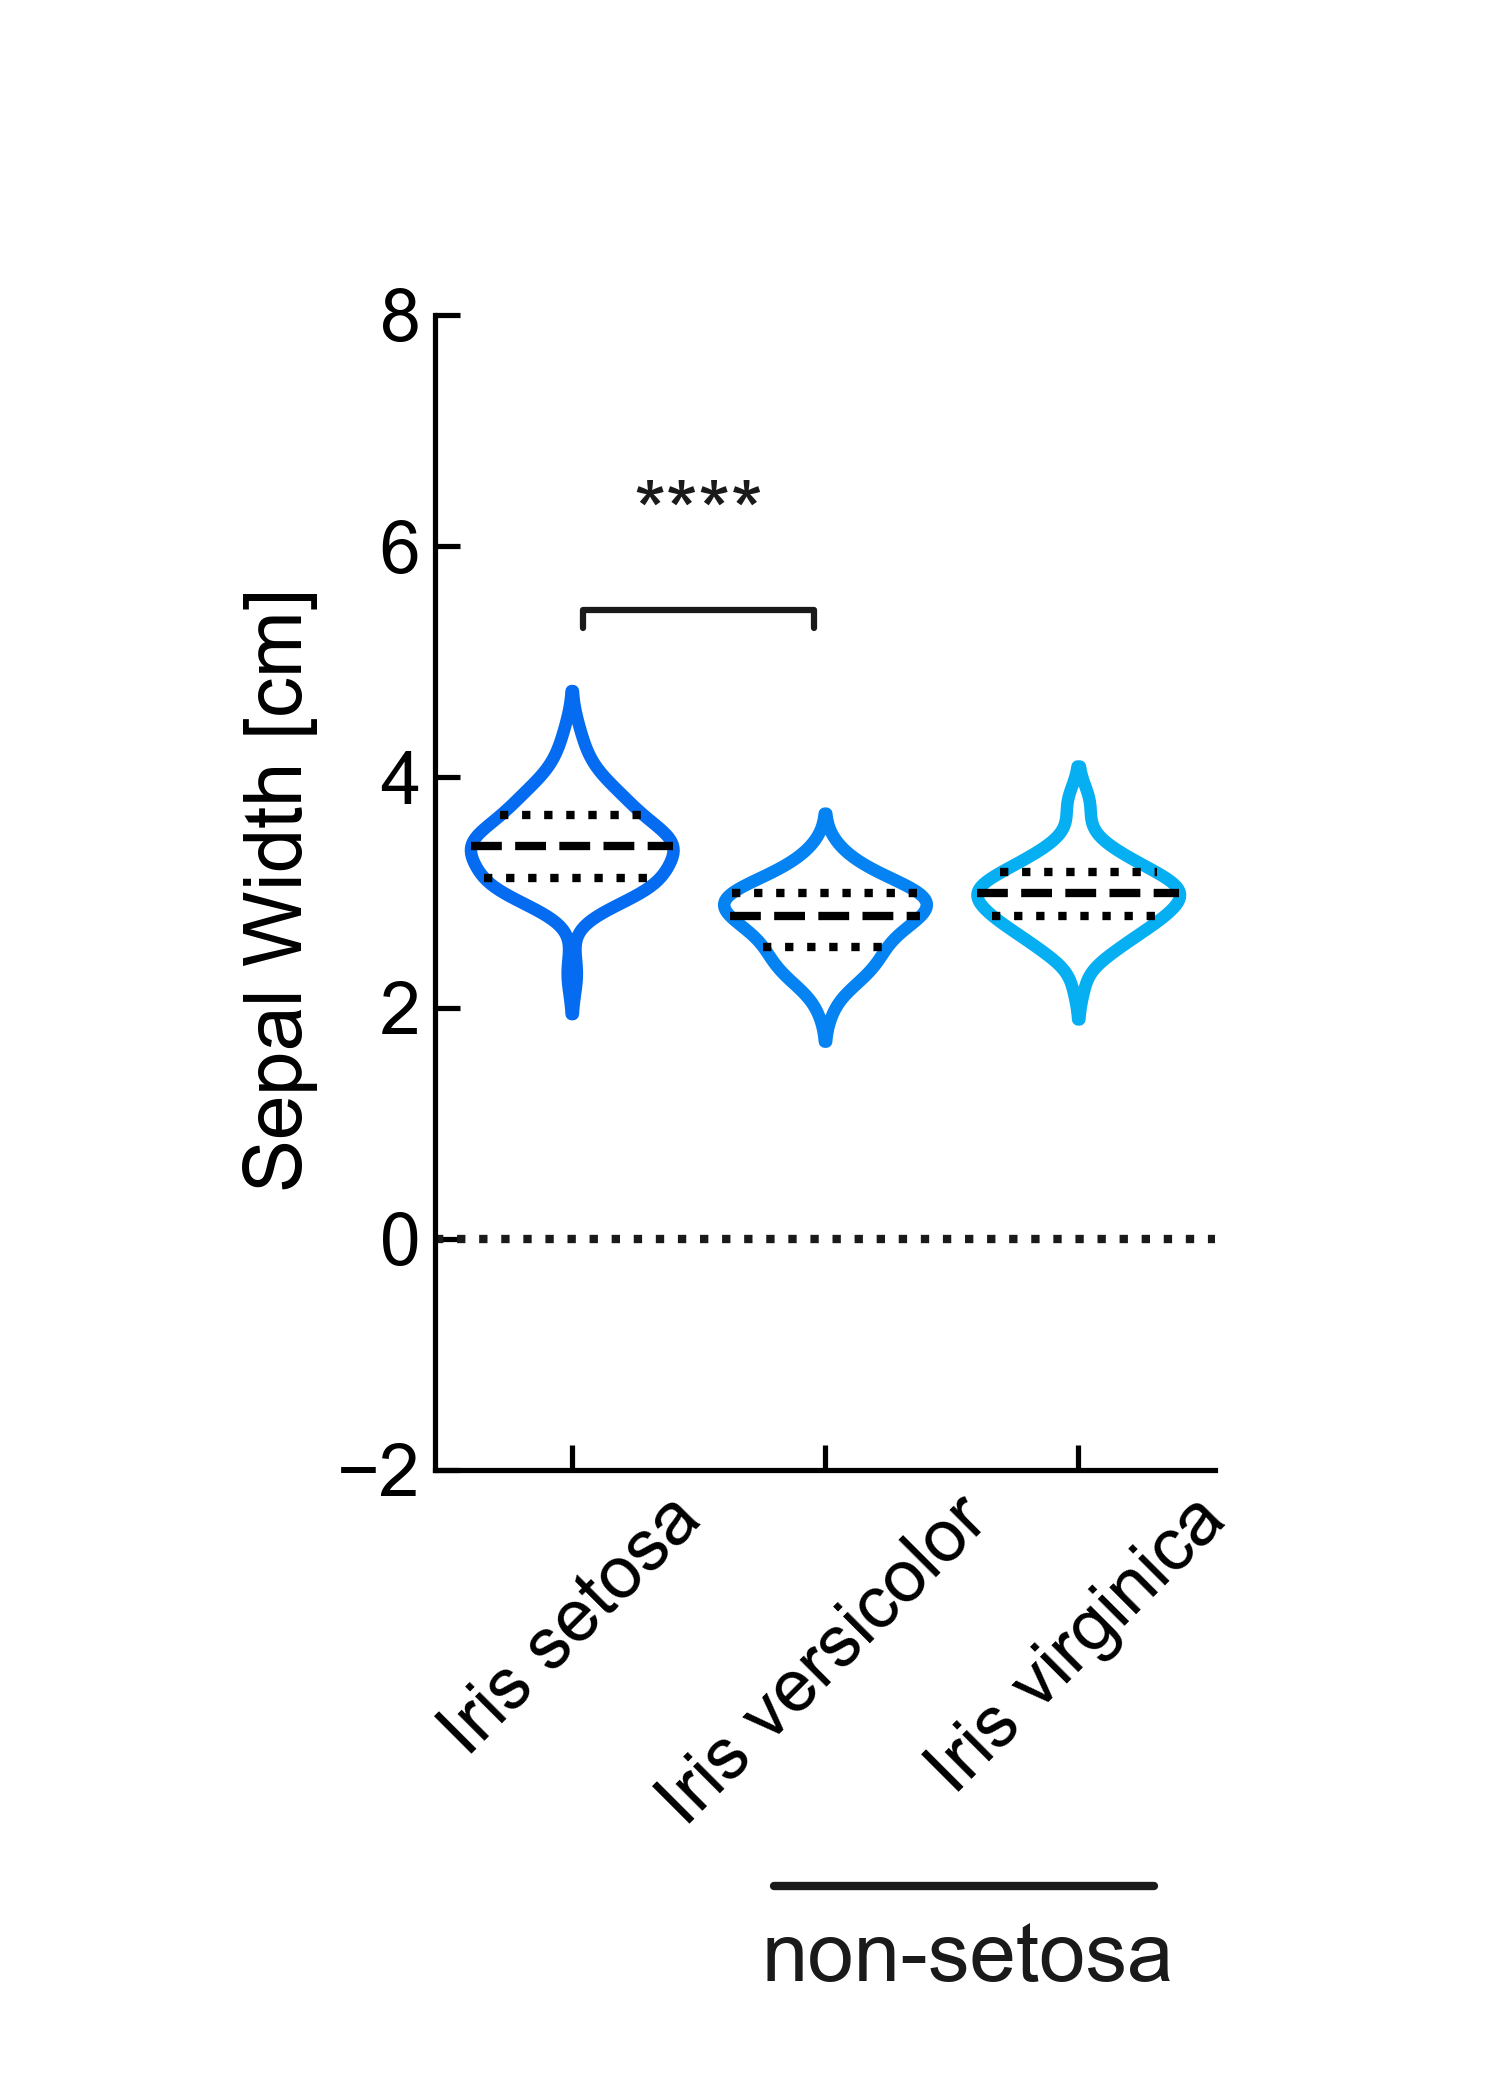
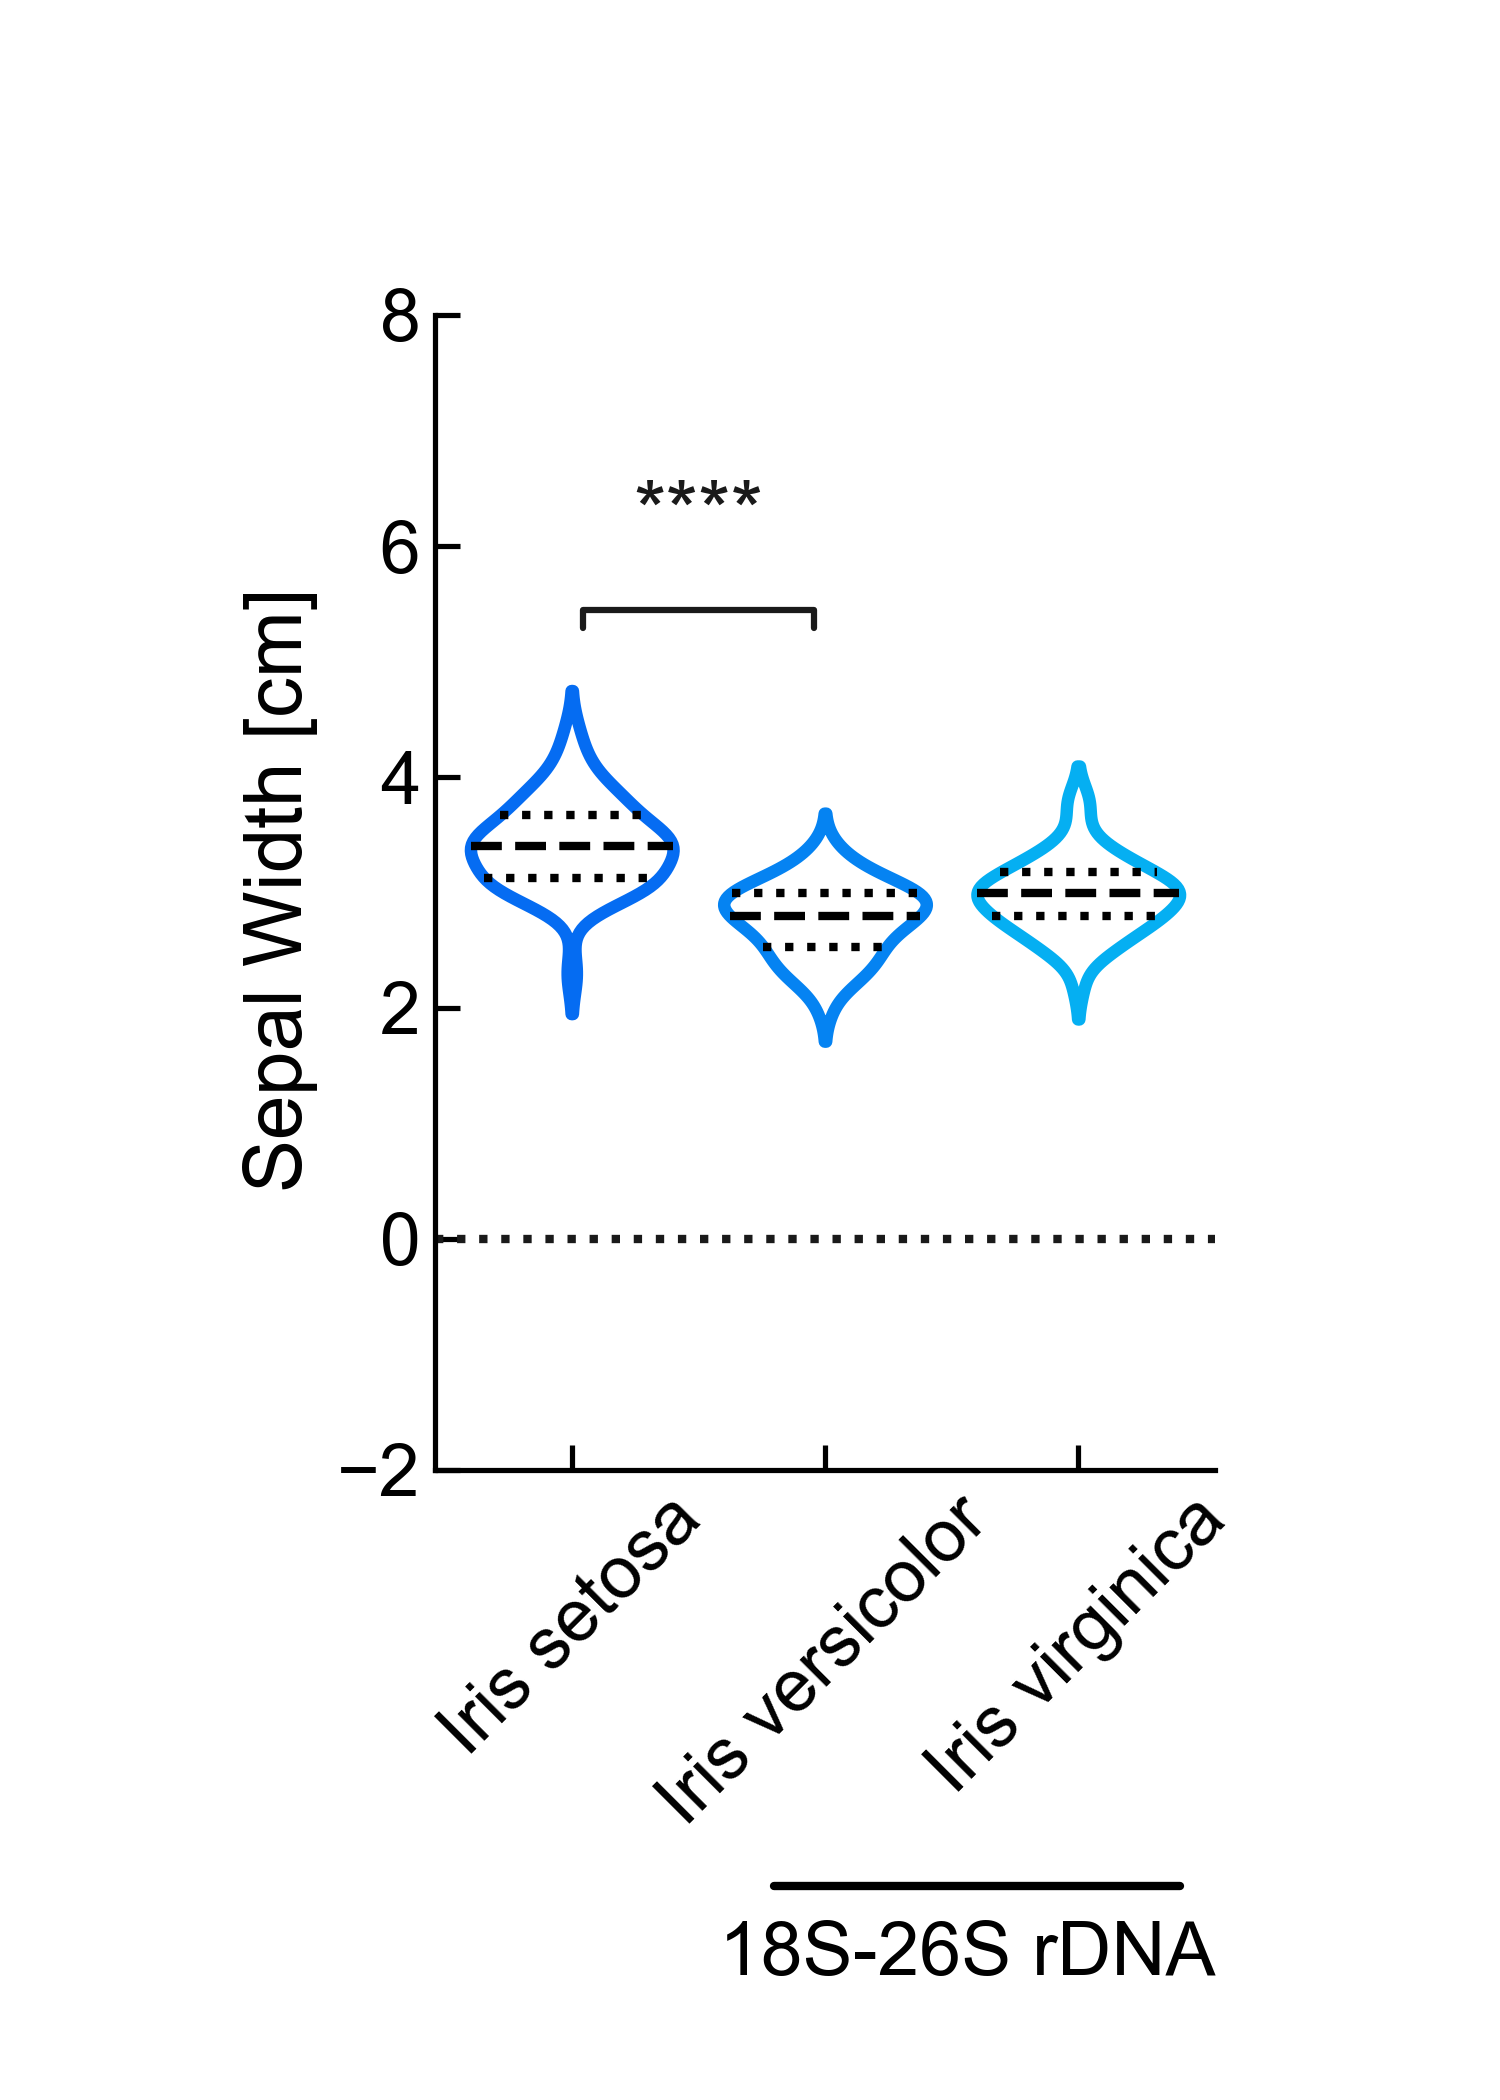
Annotation modification.

Changed region(s): [[0.4907, 0.8976, 0.7973, 0.9595]]

diff --git a/violin_plot.py b/violin_plot.py
@@ -137,12 +137,14 @@ def generate_plot(df,
 
         # add global title
         if super_title is not None:
-            fig.suptitle(super_title, fontsize="large", color="k")
+            fig.suptitle(super_title, fontsize="large", color="black")
 
         # draw line and text below group labels
         trans = ax.get_xaxis_transform()
-        ax.plot([0.8, 2.3], [-.36, -.36], color="k", transform=trans, clip_on=False, linewidth=2)
-        plt.figtext(0.645, 0.085, "non-setosa", ha="center", va="top", fontsize=20, color="k")
+        ax.plot([0.8, 2.4], [-.36, -.36],
+                color="black", transform=trans, clip_on=False, linewidth=2)
+        plt.figtext(0.645, 0.085, "18S-26S rDNA",
+                    ha="center", va="top", fontsize=18, color="black")
 
 
 if __name__ == '__main__':